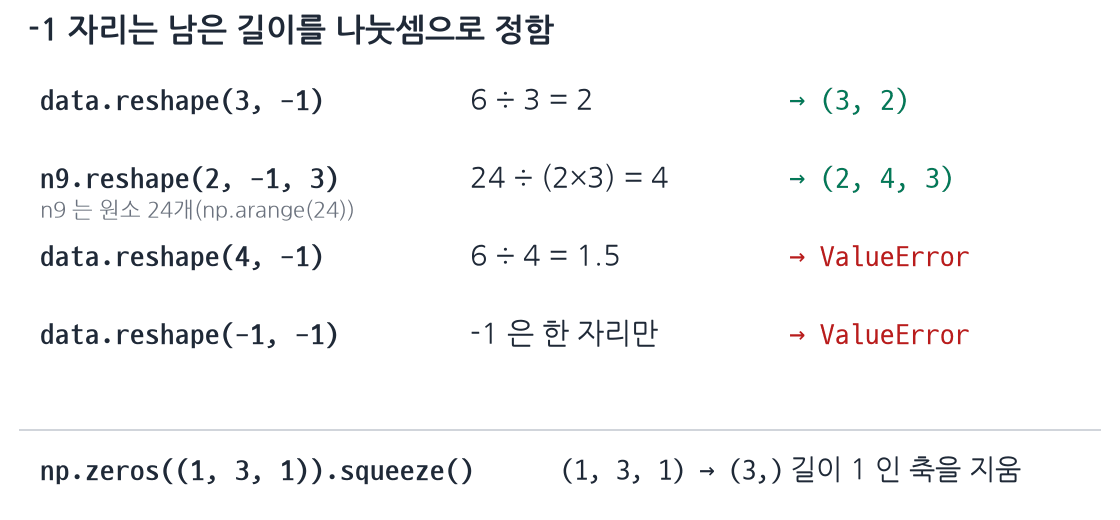
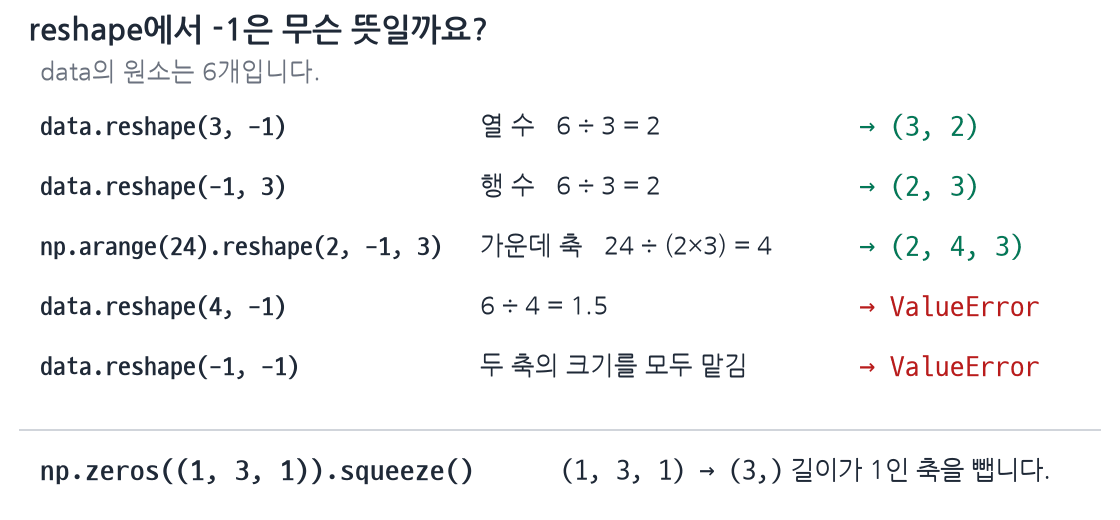
fix(ai): reshape의 -1 역할을 예제로 설명 (#381)
개론 2차시에서 reshape의 -1이 행 수나 열 수를 NumPy에 맡긴다는 점을 원소 여섯 개로 설명함. 같은 배열에서 -1을 앞이나 뒤에 넣었을 때의 결과를 그림과 복습 해설에도 반영함.

NumPy로 본문 예제를 실행하고 큰 글자의 좁은 창에서 그림과 기존 확인 문제를 검사함.

diff --git a/tools/ai_art/l02.py b/tools/ai_art/l02.py
@@ -584,6 +584,7 @@ def reshape_order():
 @figure("l02-11", "png")
 def minus_one():
     assert DATA.reshape(3, -1).shape == (3, 2)
+    assert DATA.reshape(-1, 3).shape == (2, 3)
     assert np.arange(24).reshape(2, -1, 3).shape == (2, 4, 3)
     assert np.zeros((1, 3, 1)).squeeze().shape == (3,)
     for bad in ((4, -1), (-1, -1)):
@@ -593,21 +594,22 @@ def minus_one():
         except ValueError:
             pass
     c = Canvas(520)
-    c.title("-1 자리는 남은 길이를 나눗셈으로 정함")
-    rows = (("data.reshape(3, -1)", "6 ÷ 3 = 2", "(3, 2)", True),
-            ("n9.reshape(2, -1, 3)", "24 ÷ (2×3) = 4", "(2, 4, 3)", True),
+    c.title("reshape에서 -1은 무슨 뜻일까요?")
+    c.text(40, 72, "data의 원소는 6개입니다.", size=18, color=MUTED)
+    rows = (("data.reshape(3, -1)", "열 수   6 ÷ 3 = 2", "(3, 2)", True),
+            ("data.reshape(-1, 3)", "행 수   6 ÷ 3 = 2", "(2, 3)", True),
+            ("np.arange(24).reshape(2, -1, 3)", "가운데 축   24 ÷ (2×3) = 4", "(2, 4, 3)", True),
             ("data.reshape(4, -1)", "6 ÷ 4 = 1.5", "ValueError", False),
-            ("data.reshape(-1, -1)", "-1 은 한 자리만", "ValueError", False))
+            ("data.reshape(-1, -1)", "두 축의 크기를 모두 맡김", "ValueError", False))
     for k, (code, calc, res, ok) in enumerate(rows):
-        y = 100 + k * 78
-        c.text(40, y, code, size=21, code=True, bold=True)
-        c.text(470, y, calc, size=21)
-        c.text(790, y, "→ " + res, size=21, code=True, color=GREEN if ok else RED)
-    c.text(40, 210, "n9 는 원소 24개(np.arange(24))", size=16, color=MUTED)
+        y = 126 + k * 60
+        c.text(40, y, code, size=19, code=True, bold=True)
+        c.text(480, y, calc, size=18)
+        c.text(860, y, "→ " + res, size=21, code=True, color=GREEN if ok else RED)
     c.line([20, 1100], [430, 430], color=FAINT, lw=1.5)
     c.text(40, 470, "np.zeros((1, 3, 1)).squeeze()", size=21, code=True, bold=True)
     c.text(560, 470, "(1, 3, 1) → (3,)", size=20, code=True)
-    c.text(790, 470, "길이 1 인 축을 지움", size=20)
+    c.text(790, 470, "길이가 1인 축을 뺍니다.", size=19)
     return c.image()
 
 

diff --git a/ai/learn/l02/page.md b/ai/learn/l02/page.md
@@ -460,40 +460,40 @@ data.reshape(3, 2)   # array([[3, 8], [1, 6], [2, 9]])
 {"id": "r10", "q": "`np.arange(6).reshape(2, 3)`의 1번 행은 ____ 입니다.", "answer": ["[3, 4, 5]"], "mode": "values", "why": "0~5 를 앞에서부터 세 개씩 끊으면 [0, 1, 2] 다음이 [3, 4, 5] 입니다."}
 ```
 
-### numpy가 나눗셈으로 정하는 -1 자리
+### reshape에서 -1은 무슨 뜻일까요?
 <!-- facts: F02-29 F02-30 F02-31 F02-39 -->
 
-앞 단계에서는 행 수와 열 수를 모두 정했습니다. 원소 수가 6개일 때 행 수를 3 으로 정하면 열 수는 나눗셈으로 구할 수 있습니다.
+2차원 배열에서는 `reshape(행 수, 열 수)` 순서로 새 모양을 적습니다. <u>첫 번째에 `-1`을 쓰면 NumPy가 행 수를 계산합니다. 두 번째에 쓰면 열 수를 계산합니다.</u>
+
+앞에서 쓴 `data`에는 원소가 6개 있습니다. `data.reshape(3, -1)`이라고 쓰면 NumPy가 원소 6개를 3행에 똑같이 나눕니다. 한 행에 2개씩 들어가므로 결과는 3행 2열입니다.
+
+```python
+data.reshape(3, -1)   # [[3, 8], [1, 6], [2, 9]]
+data.reshape(-1, 3)   # [[3, 8, 1], [6, 2, 9]]
+```
+
+`data.reshape(-1, 3)`에서는 한 행에 3개씩 넣습니다. 원소가 6개라 2행이 필요합니다.
+
+축이 세 개여도 같은 방법으로 계산합니다. `np.arange(24).reshape(2, -1, 3)`에서는 첫 축의 크기를 2로, 마지막 축의 크기를 3으로 정했습니다. 원소 24개를 `2 × 3`으로 나누면 가운데 축의 크기가 4가 되어 결과 모양은 `(2, 4, 3)`입니다.
 
 ```figure
 파일: assets/l02-11.png
-캡션: 그림 13. -1 자리 계산과 오류가 나는 경우, squeeze. 초록은 -1 자리를 계산해 얻은 shape, 빨강은 오류입니다.
-내용: 네 줄의 reshape와 나눗셈 결과(두 줄은 ValueError), 아래 squeeze로 (1, 3, 1)이 (3,)이 되는 한 줄
+캡션: 그림 13. NumPy는 -1을 넣은 축의 크기를 계산합니다. 초록색은 결과 모양을, 빨간색은 오류를 나타냅니다.
+내용: reshape(3, -1)은 열 수를, reshape(-1, 3)은 행 수를 구합니다. reshape(2, -1, 3)은 가운데 축의 크기를 구합니다. 아래에는 오류 예제 두 개와 squeeze 예제 하나가 있습니다.
 ```
 
-```python
-data.reshape(3, -1)      # 6 ÷ 3 = 2 라 shape (3, 2)
-n9 = np.arange(24)       # 원소 24개
-n9.reshape(2, -1, 3)     # 24 ÷ (2 × 3) = 4 라 shape (2, 4, 3)
-# data.reshape(4, -1)    # ValueError, 6 은 4 로 나눠떨어지지 않음
-```
+- `data.reshape(4, -1)`은 원소 6개를 4행에 똑같이 나눌 수 없어 `ValueError`가 납니다.
+- `data.reshape(-1, -1)`도 `ValueError`가 납니다. 행 수와 열 수를 둘 다 맡기면 `(2, 3)`과 `(3, 2)`처럼 가능한 모양이 여럿입니다. `-1`은 한 축에만 쓸 수 있습니다.
+- 축 크기를 모두 적었을 때도 전체 원소 수는 같아야 합니다. 원소 24개를 `reshape(3, 9)`로 바꾸면 27칸이 필요하므로 `ValueError`가 납니다.
 
-- `data.reshape(3, -1)`의 -1 자리는 전체 원소 수 6 을 3 으로 나눈 2 입니다.
-- `n9.reshape(2, -1, 3)`에서는 원소 수 24 를 정해진 크기의 곱 2 × 3 으로 나눠 4 를 얻습니다.
-
-모양의 한 자리에 -1 을 쓰면 numpy가 이 나눗셈으로 그 자리의 길이를 정합니다. 나눠떨어지지 않으면 ValueError가 납니다. 원소 24개를 `reshape(3, 9)`로 바꾸려 해도 3 × 9 = 27 이 24 와 달라 ValueError가 납니다.
-
--1 은 한 자리에만 씁니다. 두 자리에 쓰면 길이를 하나로 정할 수 없어 ValueError가 납니다.
-
-`squeeze()`는 길이가 1 인 축을 지웁니다. `np.zeros((1, 3, 1)).squeeze()`는 앞뒤의 축을 지워 shape (3,)을 만듭니다.
-
+길이가 1인 축을 빼고 싶을 때는 `squeeze()`를 씁니다. `np.zeros((1, 3, 1)).squeeze()`는 첫 축과 마지막 축을 빼서 shape `(3,)`을 만듭니다.
 
 ```ai-recall
-{"id": "r11", "q": "원소 24개인 배열에 `reshape(2, -1, 3)`을 하면 shape은 ____ 입니다.", "answer": ["(2, 4, 3)"], "mode": "shape", "why": "-1 자리는 24 ÷ (2 × 3) = 4 입니다."}
+{"id": "r11", "q": "원소 24개인 배열에 `reshape(2, -1, 3)`을 하면 shape은 ____ 입니다.", "answer": ["(2, 4, 3)"], "mode": "shape", "why": "첫 축의 크기는 2이고 마지막 축의 크기는 3입니다. NumPy가 가운데 축의 크기를 24 ÷ (2 × 3) = 4로 계산합니다."}
 ```
 
 ```ai-why
-{"q": "-1 을 두 자리에 쓰면 왜 오류가 날까요?", "a": "원소 6개를 두 축으로 나누는 방법은 (1, 6), (2, 3), (3, 2), (6, 1)처럼 여럿이라 길이를 하나로 정할 수 없습니다. 모르는 자리가 하나면 나눗셈 한 번으로 정해집니다."}
+{"q": "원소가 6개일 때 `reshape(-1, -1)`을 쓰면 왜 오류가 날까요?", "a": "2행 3열과 3행 2열은 둘 다 원소가 6개입니다. 행 수와 열 수를 모두 맡기면 NumPy가 어느 모양으로 만들지 정할 수 없습니다."}
 ```
 
 ### 행과 열을 맞바꾸고 1차원 배열은 바꾸지 않는 .T
@@ -620,8 +620,8 @@ NumPy 2 에는 `np.concatenate`와 같은 함수를 가리키는 짧은 이름 `
 질문을 읽고 답을 충분히 생각한 뒤 펼쳐보세요.
 
 ```ai-memo
-[{"q": "`np.arange(8).reshape(2, -1)`의 결과는 무엇인가요?", "a": "-1 자리가 8 ÷ 2 = 4 라 [[0, 1, 2, 3], [4, 5, 6, 7]] 입니다. 앞에서부터 한 행씩 채웁니다.", "cards": ["i02-b09"]},
- {"q": "원소 24개인 배열에 `reshape(3, 9)`를 하면 어떻게 되나요?", "a": "3 × 9 = 27 이라 원소 수가 맞지 않아 ValueError가 납니다. -1 은 한 자리에만 쓸 수 있습니다.", "cards": ["i02-c06"]},
+[{"q": "`np.arange(8).reshape(2, -1)`의 결과는 무엇인가요?", "a": "행 수는 2로 정했고 열 수는 NumPy가 계산합니다. 원소 8개를 2행에 나누면 한 행에 4개씩 들어갑니다. 앞에서부터 4개씩 채운 결과는 [[0, 1, 2, 3], [4, 5, 6, 7]]입니다.", "cards": ["i02-b09"]},
+ {"q": "원소 24개인 배열에 `reshape(3, 9)`를 하면 어떻게 되나요?", "a": "3행 9열을 채우려면 원소가 27개 필요합니다. 원래 배열에는 24개뿐이어서 `ValueError`가 납니다.", "cards": ["i02-c06"]},
  {"q": "shape (2, 3, 4)에 axes 없이 `np.transpose`를 하면 shape은 무엇인가요?", "a": "축 순서가 뒤집혀 (4, 3, 2) 입니다.", "cards": ["i02-b10"]},
  {"q": "1차원 배열의 `.T`는 어떻게 되나요?", "a": "shape이 바뀌지 않습니다. 열벡터는 reshape(n, 1)로 만듭니다.", "cards": ["i02-c07"]},
  {"q": "vstack과 hstack은 어느 쪽으로 붙이나요?", "a": "vstack은 위아래로 붙여 행 수가 늘어나고 hstack은 옆으로 붙여 열 수가 늘어납니다. (3, 2) 둘이면 (6, 2)와 (3, 4) 입니다.", "cards": ["i02-b11"]}]
